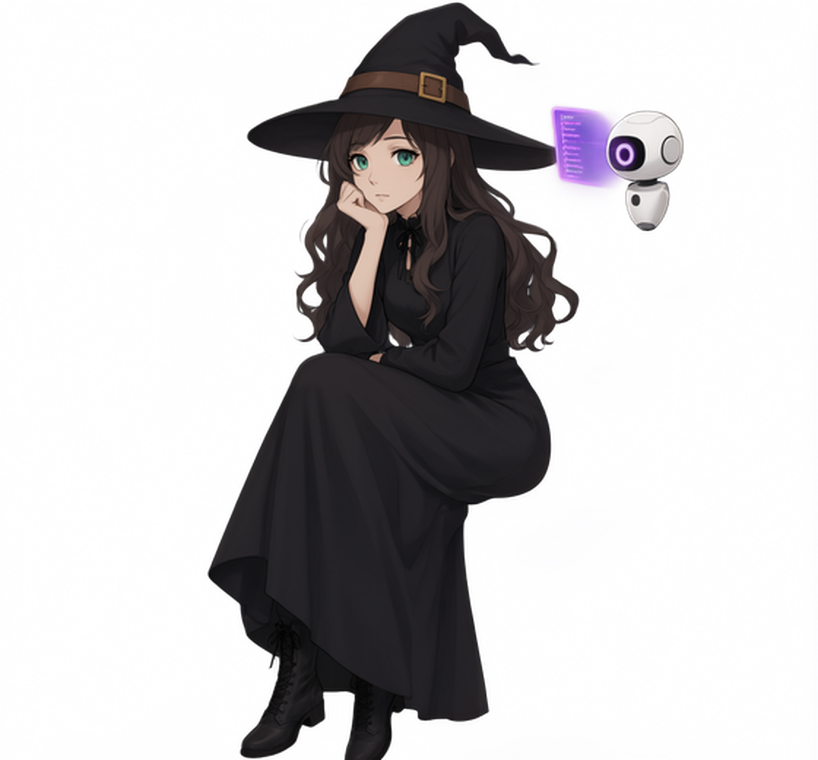
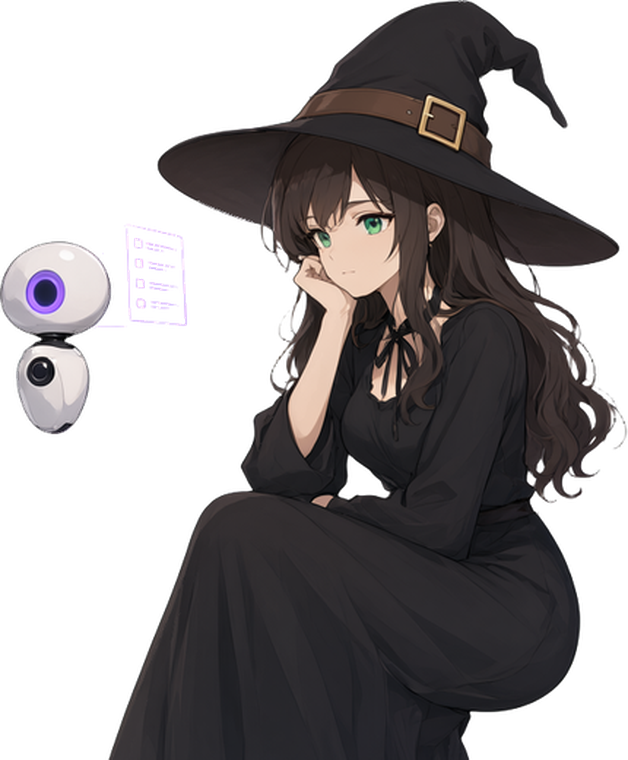
Restore consistent hero-style service art

diff --git a/assets/style.css b/assets/style.css
@@ -3473,7 +3473,7 @@ a:hover { color: #fff; }
    читается как видоискатель, а не как карточка, и не мешает фигуре выходить
    за её пределы. */
 .card-with-art {
-  grid-template-columns: minmax(0, 1fr) clamp(300px, 26vw, 390px);
+  grid-template-columns: minmax(0, 1fr) clamp(240px, 20vw, 300px);
   grid-template-areas:
     "icon aside"
     "title aside"
@@ -3564,7 +3564,7 @@ a:hover { color: #fff; }
 
 @media (max-width: 1023px) {
   .card-with-art {
-    grid-template-columns: minmax(0, 1fr) clamp(230px, 27vw, 280px);
+    grid-template-columns: minmax(0, 1fr) clamp(190px, 26vw, 260px);
     gap: 18px 28px;
   }
   .card-aside { padding-left: 20px; }

diff --git a/src/api/assets.rs b/src/api/assets.rs
@@ -349,116 +349,116 @@ pub const SERVICE_ART: [ServiceArt; 19] = [
     ServiceArt {
         slug: "ai-assistants",
         image: include_bytes!("../../assets/services/ai-assistants.png"),
-        width: 818,
+        width: 628,
         height: 760,
     },
     ServiceArt {
         slug: "ai-automation",
         image: include_bytes!("../../assets/services/ai-automation.png"),
-        width: 560,
-        height: 560,
+        width: 382,
+        height: 760,
     },
     ServiceArt {
         slug: "ai-bots",
         image: include_bytes!("../../assets/services/ai-bots.png"),
-        width: 560,
-        height: 560,
+        width: 558,
+        height: 760,
     },
     ServiceArt {
         slug: "ai-mcp",
         image: include_bytes!("../../assets/services/ai-mcp.png"),
-        width: 760,
+        width: 539,
         height: 760,
     },
     ServiceArt {
         slug: "ai-vision",
         image: include_bytes!("../../assets/services/ai-vision.png"),
-        width: 818,
+        width: 444,
         height: 760,
     },
     ServiceArt {
         slug: "comfyui-media",
         image: include_bytes!("../../assets/services/comfyui-media.png"),
-        width: 560,
-        height: 560,
+        width: 395,
+        height: 760,
     },
     ServiceArt {
         slug: "design-figma",
         image: include_bytes!("../../assets/services/design-figma.png"),
-        width: 818,
+        width: 424,
         height: 760,
     },
     ServiceArt {
         slug: "desktop-apps",
         image: include_bytes!("../../assets/services/desktop-apps.png"),
-        width: 560,
-        height: 560,
+        width: 481,
+        height: 760,
     },
     ServiceArt {
         slug: "email-campaigns",
         image: include_bytes!("../../assets/services/email-campaigns.png"),
-        width: 560,
-        height: 560,
+        width: 541,
+        height: 760,
     },
     ServiceArt {
         slug: "fullstack-any",
         image: include_bytes!("../../assets/services/fullstack-any.png"),
-        width: 818,
+        width: 472,
         height: 760,
     },
     ServiceArt {
         slug: "legacy-refactor",
         image: include_bytes!("../../assets/services/legacy-refactor.png"),
-        width: 818,
+        width: 447,
         height: 760,
     },
     ServiceArt {
         slug: "local-private-dev",
         image: include_bytes!("../../assets/services/local-private-dev.png"),
         width: 560,
-        height: 560,
+        height: 754,
     },
     ServiceArt {
         slug: "mobile-apps",
         image: include_bytes!("../../assets/services/mobile-apps.png"),
-        width: 560,
-        height: 560,
+        width: 403,
+        height: 760,
     },
     ServiceArt {
         slug: "qa-testing",
         image: include_bytes!("../../assets/services/qa-testing.png"),
         width: 560,
-        height: 560,
+        height: 753,
     },
     ServiceArt {
         slug: "small-fixes",
         image: include_bytes!("../../assets/services/small-fixes.png"),
-        width: 818,
+        width: 453,
         height: 760,
     },
     ServiceArt {
         slug: "support",
         image: include_bytes!("../../assets/services/support.png"),
         width: 560,
-        height: 560,
+        height: 719,
     },
     ServiceArt {
         slug: "sysadmin-devops",
         image: include_bytes!("../../assets/services/sysadmin-devops.png"),
-        width: 560,
-        height: 560,
+        width: 497,
+        height: 760,
     },
     ServiceArt {
         slug: "voice-ai",
         image: include_bytes!("../../assets/services/voice-ai.png"),
-        width: 818,
+        width: 387,
         height: 760,
     },
     ServiceArt {
         slug: "web-any",
         image: include_bytes!("../../assets/services/web-any.png"),
-        width: 560,
-        height: 560,
+        width: 557,
+        height: 760,
     },
 ];
 
